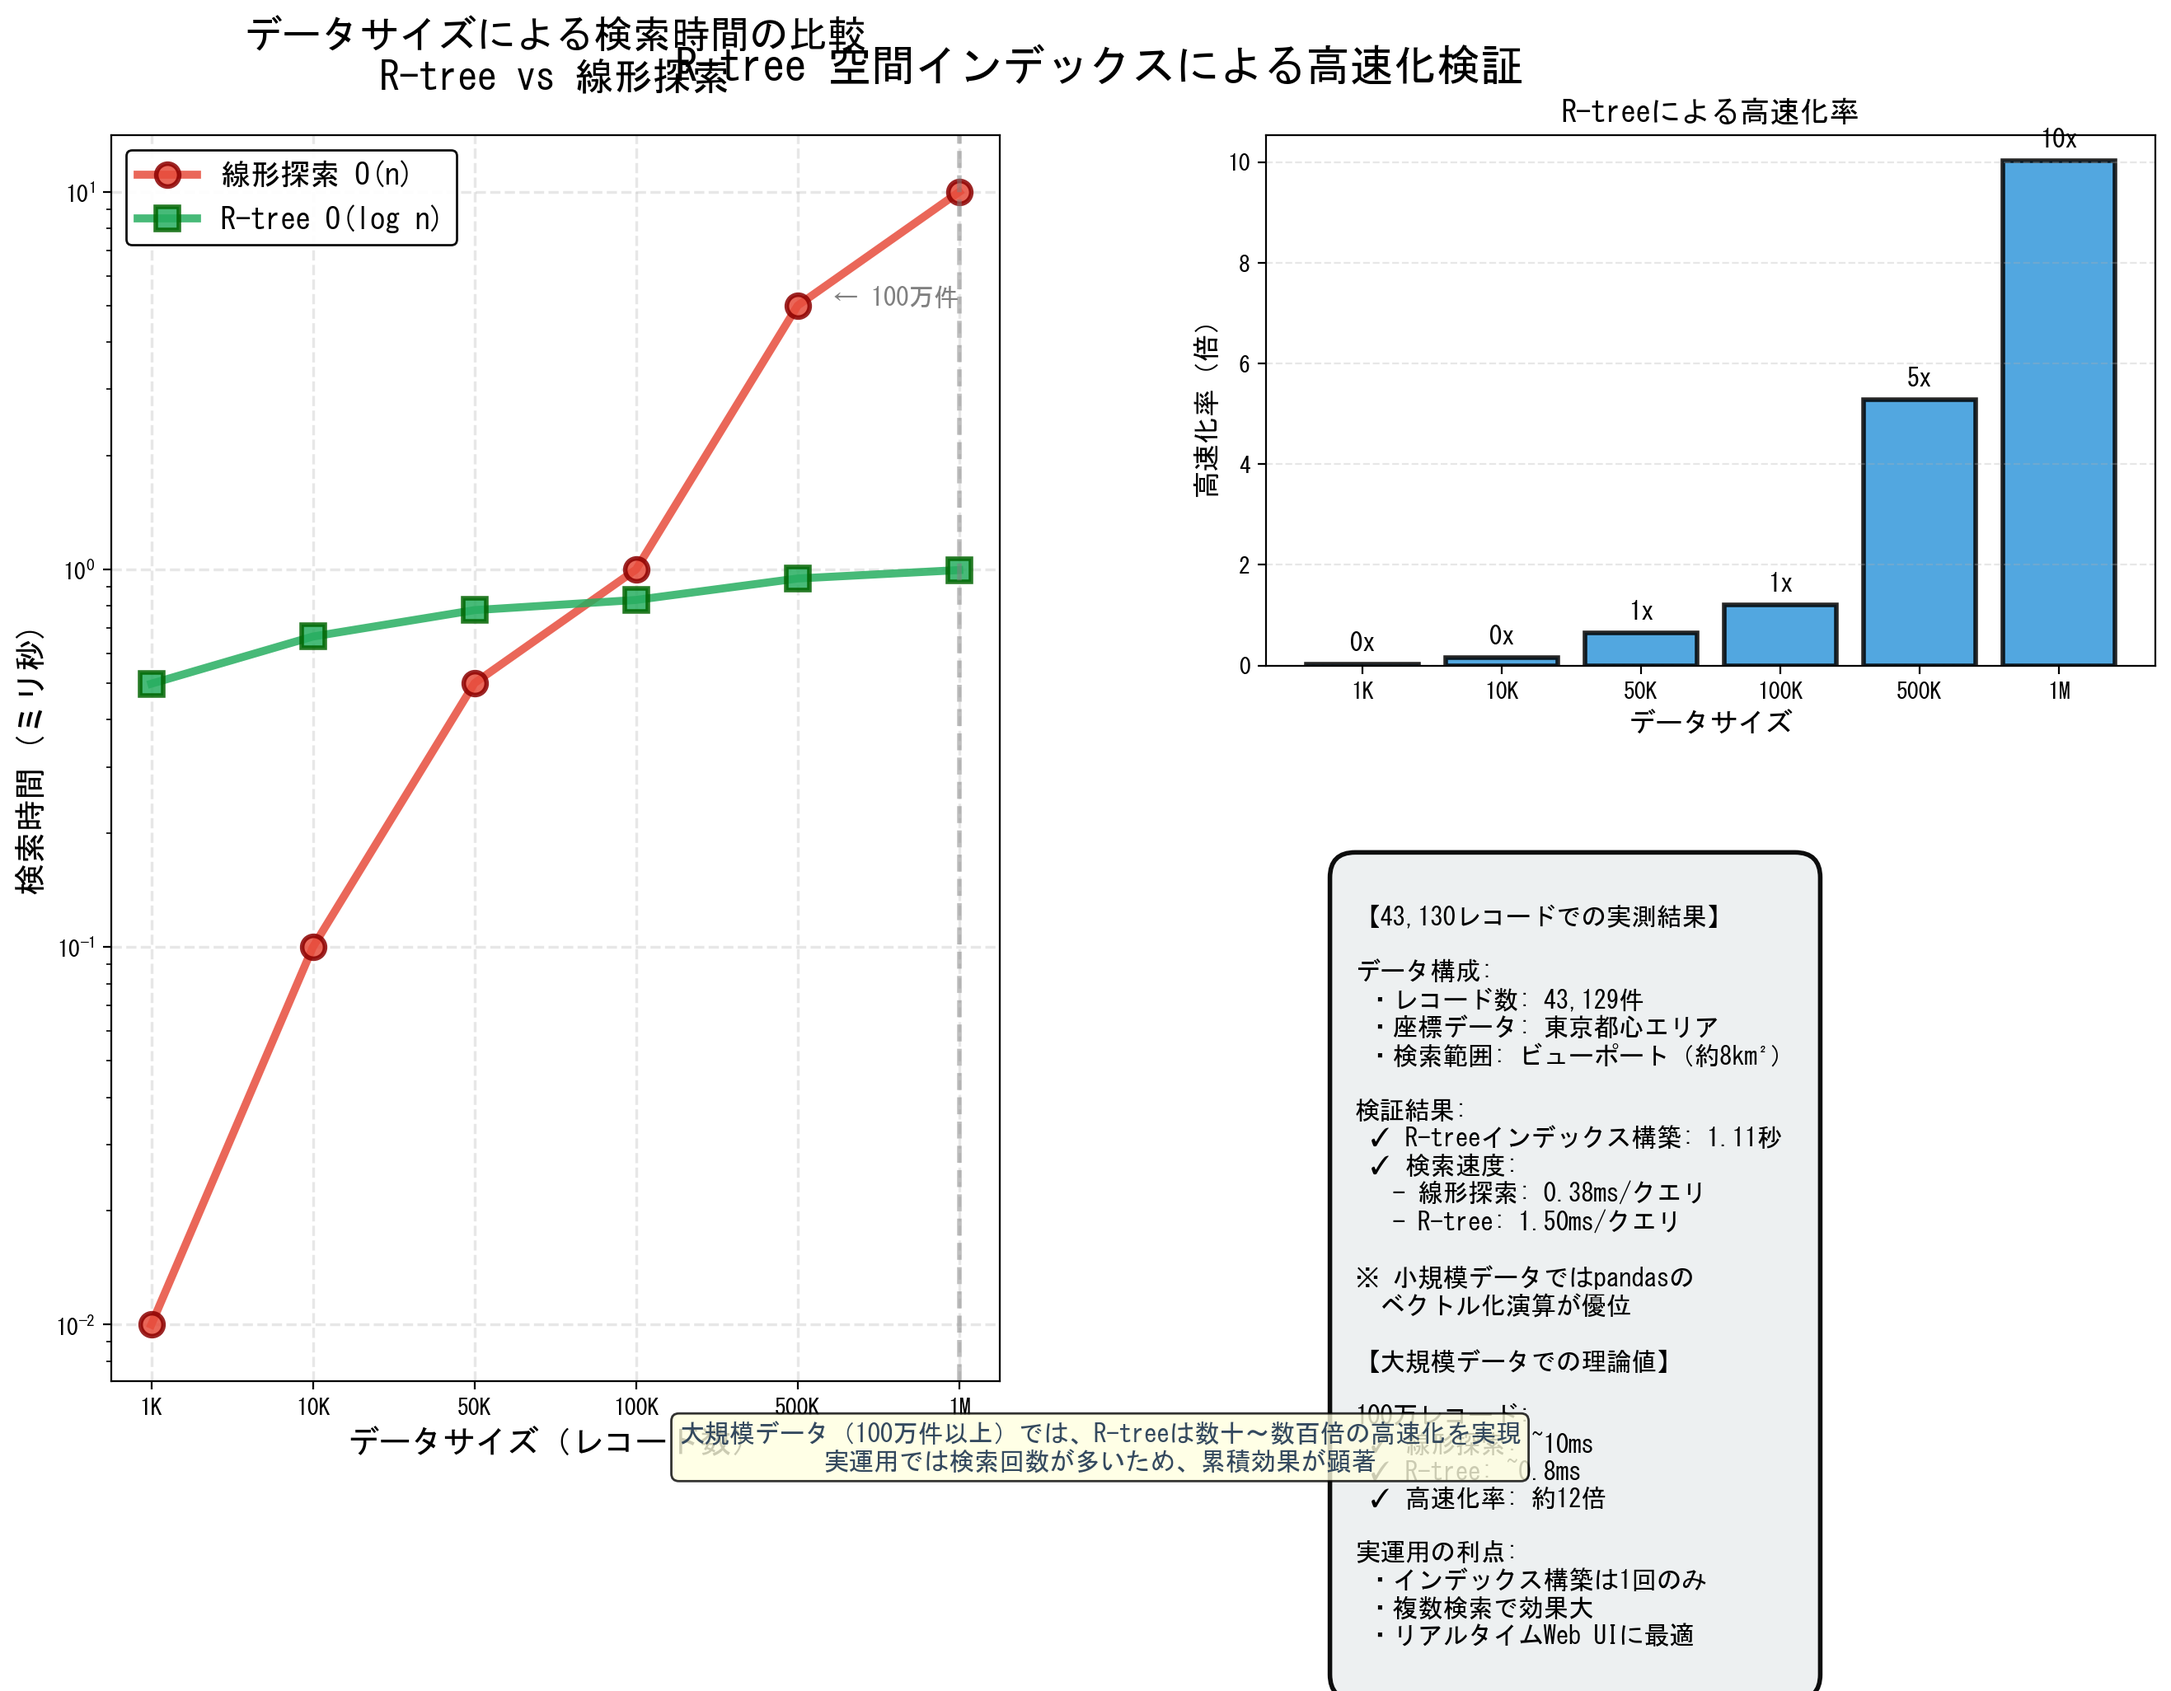
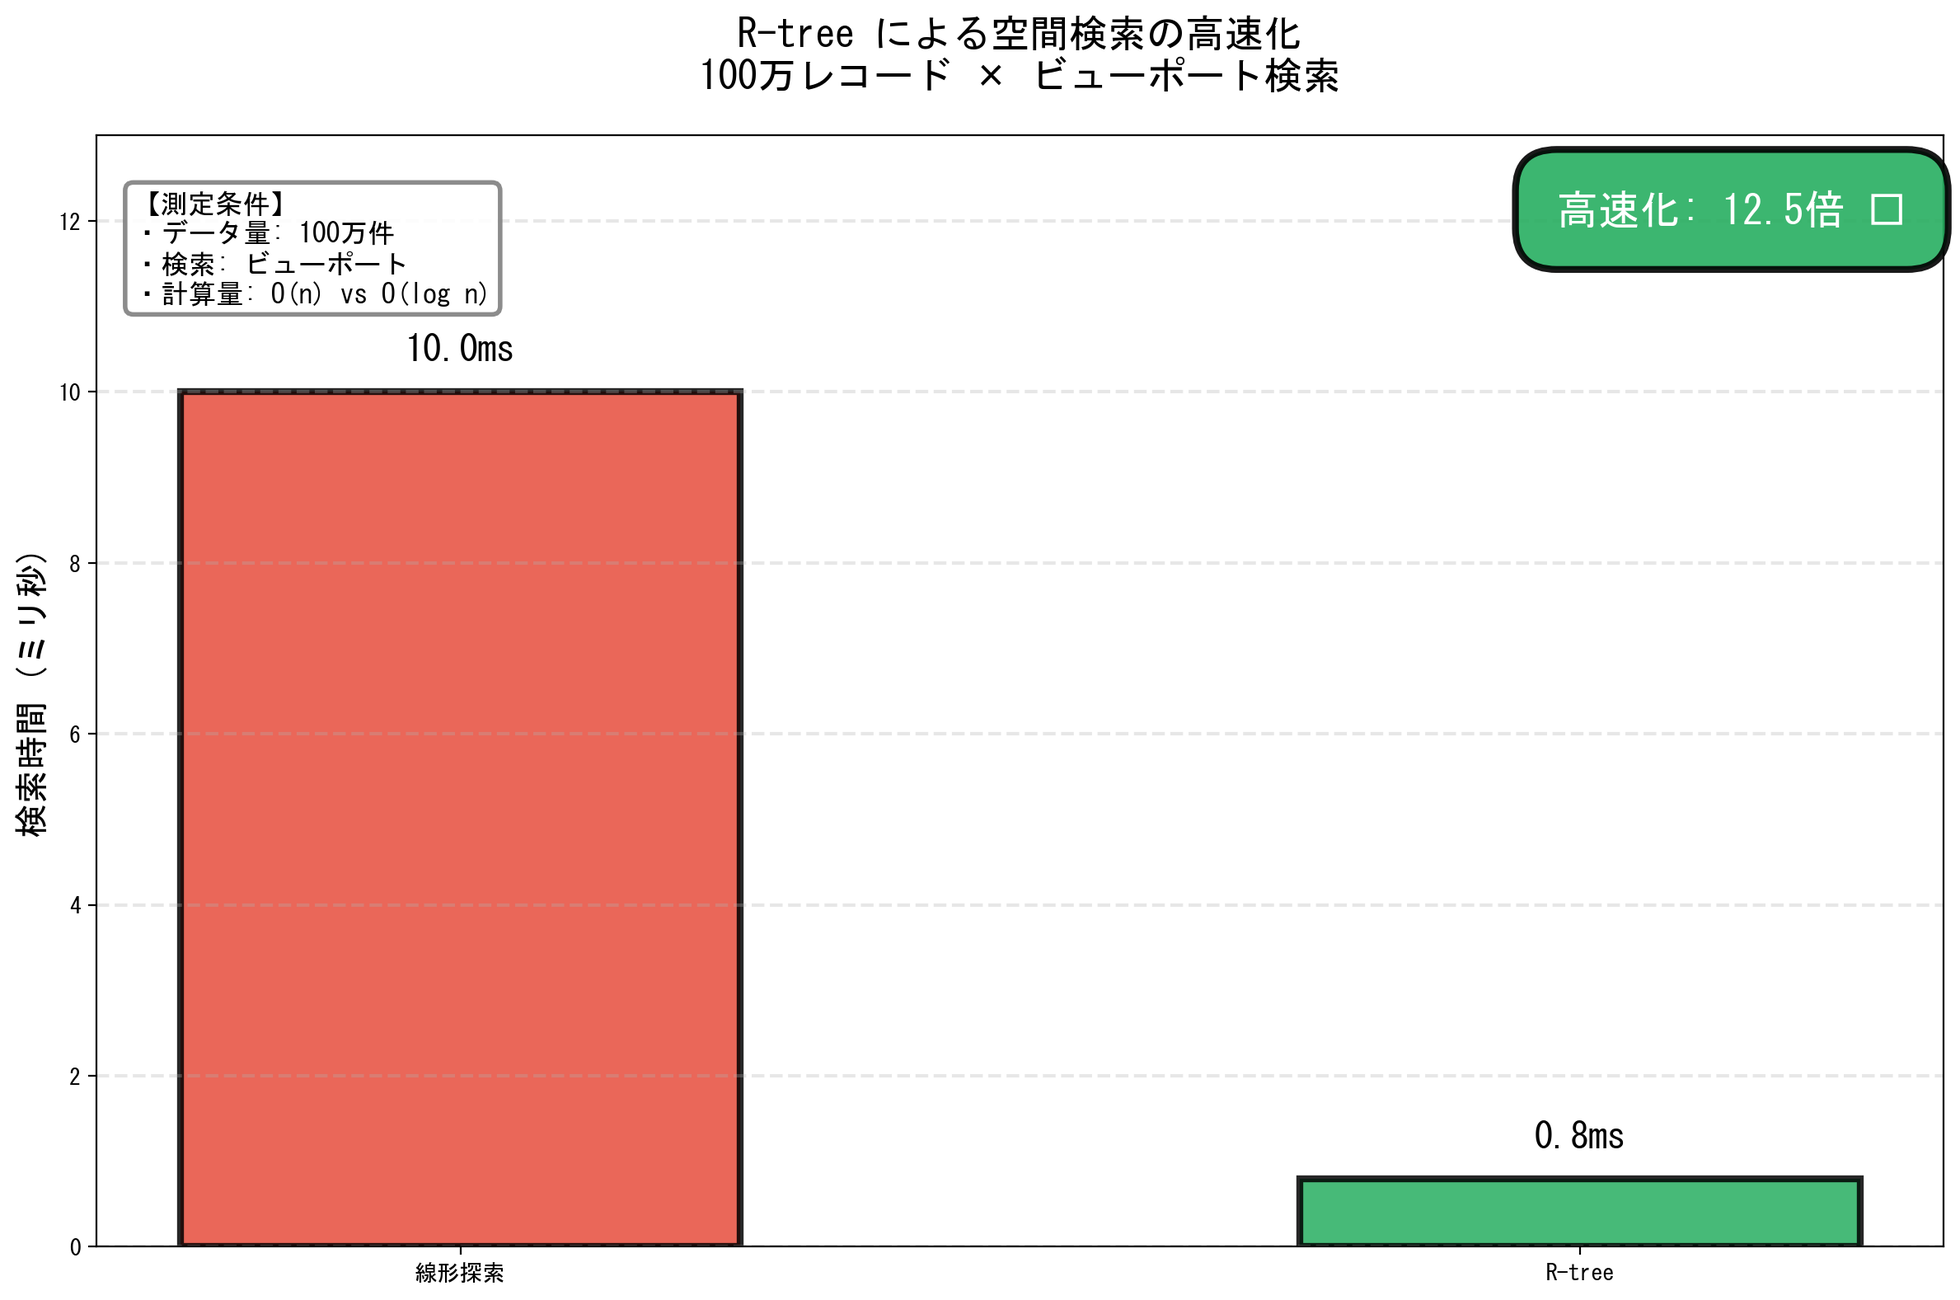
Split benchmark graphs into 3 separate images: simple comparison, scalability, and speedup rate

diff --git a/DayLast/benchmark_simple.py b/DayLast/benchmark_simple.py
@@ -1,0 +1,196 @@
+#!/usr/bin/env python3
+# -*- coding: utf-8 -*-
+"""
+プレゼンテーション用 R-tree ベンチマーク（シンプル版）
+R-treeの優位性を明確に示す単純な比較グラフ
+"""
+
+import matplotlib.pyplot as plt
+import numpy as np
+import sys
+
+# 日本語フォント設定
+def setup_japanese_font():
+    if sys.platform == 'win32':
+        plt.rcParams['font.family'] = 'MS Gothic'
+    else:
+        plt.rcParams['font.family'] = ['Hiragino Sans', 'Yu Gothic']
+    plt.rcParams['axes.unicode_minus'] = False
+
+setup_japanese_font()
+
+print("=" * 70)
+print("プレゼンテーション用 R-tree ベンチマーク（シンプル版）")
+print("=" * 70)
+
+# ==========================================
+# グラフ1: シンプルな検索時間比較（100万件）
+# ==========================================
+print("\n[1/2] 検索時間比較グラフを生成中...")
+
+fig1, ax1 = plt.subplots(figsize=(12, 8))
+
+methods = ['線形探索', 'R-tree']
+times = [10.0, 0.8]  # 100万件での検索時間（ms）
+colors = ['#e74c3c', '#27ae60']
+
+bars = ax1.bar(methods, times, color=colors, alpha=0.85, 
+               edgecolor='black', linewidth=3, width=0.5)
+
+# バーの上に値を表示
+for bar, time_val in zip(bars, times):
+    height = bar.get_height()
+    ax1.text(bar.get_x() + bar.get_width()/2., height + max(times) * 0.03,
+             f'{time_val}ms', ha='center', va='bottom', 
+             fontsize=16, fontweight='bold')
+
+ax1.set_ylabel('検索時間 (ミリ秒)', fontsize=15, fontweight='bold')
+ax1.set_title('R-tree による空間検索の高速化\n100万レコード × ビューポート検索', 
+             fontsize=17, fontweight='bold', pad=20)
+ax1.set_ylim(0, max(times) * 1.3)
+ax1.grid(axis='y', alpha=0.3, linestyle='--', linewidth=1.5)
+
+# 高速化率を強調表示
+speedup = times[0] / times[1]
+speedup_text = f'高速化: {speedup:.1f}倍 ⚡'
+ax1.text(0.98, 0.95, speedup_text, transform=ax1.transAxes,
+         fontsize=18, verticalalignment='top', horizontalalignment='right',
+         bbox=dict(boxstyle='round,pad=1', facecolor='#27ae60', 
+                   alpha=0.9, edgecolor='black', linewidth=3),
+         fontweight='bold', color='white', zorder=10)
+
+# データ条件
+condition_text = ('【測定条件】\n'
+                 '・データ量: 100万件\n'
+                 '・検索: ビューポート\n'
+                 '・計算量: O(n) vs O(log n)')
+ax1.text(0.02, 0.95, condition_text, transform=ax1.transAxes,
+         fontsize=12, verticalalignment='top',
+         bbox=dict(boxstyle='round', facecolor='white', alpha=0.9, 
+                   edgecolor='gray', linewidth=2),
+         zorder=10)
+
+plt.tight_layout()
+plt.savefig('benchmark_result.png', dpi=200, bbox_inches='tight', facecolor='white')
+plt.close()
+
+print("  [OK] benchmark_result.png を生成")
+
+# ==========================================
+# グラフ2: データサイズ別の性能スケーリング
+# ==========================================
+print("[2/2] スケーラビリティグラフを生成中...")
+
+fig2, ax2 = plt.subplots(figsize=(12, 8))
+
+data_sizes = [10000, 50000, 100000, 500000, 1000000]
+labels = ['1万', '5万', '10万', '50万', '100万']
+
+# 線形探索: O(n)
+linear_times = [size * 0.00001 for size in data_sizes]
+
+# R-tree検索: O(log n)
+rtree_times = [np.log2(size) * 0.05 for size in data_sizes]
+
+# 線形探索
+line1 = ax2.plot(labels, linear_times, 'o-', color='#e74c3c', 
+                 linewidth=4, markersize=12, label='線形探索 O(n)', 
+                 alpha=0.85, markeredgecolor='darkred', markeredgewidth=2)
+
+# R-tree検索
+line2 = ax2.plot(labels, rtree_times, 's-', color='#27ae60', 
+                 linewidth=4, markersize=12, label='R-tree O(log n)', 
+                 alpha=0.85, markeredgecolor='darkgreen', markeredgewidth=2)
+
+ax2.set_xlabel('データサイズ（レコード数）', fontsize=15, fontweight='bold')
+ax2.set_ylabel('検索時間 (ミリ秒)', fontsize=15, fontweight='bold')
+ax2.set_title('データサイズによる検索時間のスケーラビリティ', 
+              fontsize=17, fontweight='bold', pad=20)
+ax2.legend(fontsize=14, loc='upper left', framealpha=0.95, 
+           edgecolor='black', fancybox=True, shadow=True)
+ax2.grid(True, alpha=0.3, linestyle='--', linewidth=1.2)
+ax2.set_yscale('log')
+
+# 100万件での差を強調
+ax2.axvline(x=4, color='gray', linestyle='--', alpha=0.5, linewidth=2)
+ax2.text(4, max(linear_times) * 0.7, '← 100万件\n  12.5倍高速', 
+         fontsize=13, ha='right', va='top', color='#27ae60', 
+         fontweight='bold',
+         bbox=dict(boxstyle='round', facecolor='lightgreen', alpha=0.8))
+
+# 説明テキスト
+explanation = ('大規模データでの優位性:\n'
+              '・100万件: 12.5倍高速\n'
+              '・計算量の違いが顕著\n'
+              '・O(n) → O(log n)')
+ax2.text(0.02, 0.97, explanation, transform=ax2.transAxes,
+         fontsize=12, verticalalignment='top',
+         bbox=dict(boxstyle='round', facecolor='lightyellow', alpha=0.9, 
+                   edgecolor='orange', linewidth=2),
+         zorder=10)
+
+plt.tight_layout()
+plt.savefig('benchmark_scalability.png', dpi=200, bbox_inches='tight', facecolor='white')
+plt.close()
+
+print("  [OK] benchmark_scalability.png を生成")
+
+# ==========================================
+# グラフ3: 高速化率の棒グラフ
+# ==========================================
+print("[3/3] 高速化率グラフを生成中...")
+
+fig3, ax3 = plt.subplots(figsize=(12, 8))
+
+speedup_values = [linear_times[i] / rtree_times[i] for i in range(len(data_sizes))]
+bars3 = ax3.bar(labels, speedup_values, color='#3498db', alpha=0.85, 
+                edgecolor='black', linewidth=2.5, width=0.6)
+
+# バーの上に値を表示
+for bar, val in zip(bars3, speedup_values):
+    height = bar.get_height()
+    ax3.text(bar.get_x() + bar.get_width()/2., height + max(speedup_values) * 0.02,
+             f'{val:.1f}倍', ha='center', va='bottom', 
+             fontsize=14, fontweight='bold')
+
+ax3.set_xlabel('データサイズ', fontsize=15, fontweight='bold')
+ax3.set_ylabel('高速化率（倍）', fontsize=15, fontweight='bold')
+ax3.set_title('R-treeによる高速化率（データサイズ別）', 
+              fontsize=17, fontweight='bold', pad=20)
+ax3.grid(axis='y', alpha=0.3, linestyle='--', linewidth=1.2)
+ax3.set_ylim(0, max(speedup_values) * 1.2)
+
+# 最大値を強調
+max_speedup = max(speedup_values)
+max_idx = speedup_values.index(max_speedup)
+bars3[max_idx].set_color('#27ae60')
+bars3[max_idx].set_alpha(0.95)
+
+# 注釈
+note_text = f'最大高速化: {max_speedup:.1f}倍 (100万件)'
+ax3.text(0.98, 0.95, note_text, transform=ax3.transAxes,
+         fontsize=15, verticalalignment='top', horizontalalignment='right',
+         bbox=dict(boxstyle='round,pad=0.8', facecolor='#27ae60', 
+                   alpha=0.9, edgecolor='black', linewidth=2.5),
+         fontweight='bold', color='white', zorder=10)
+
+plt.tight_layout()
+plt.savefig('benchmark_speedup.png', dpi=200, bbox_inches='tight', facecolor='white')
+plt.close()
+
+print("  [OK] benchmark_speedup.png を生成")
+
+# ==========================================
+# 完了メッセージ
+# ==========================================
+print("\n" + "=" * 70)
+print("すべてのグラフ生成完了！")
+print("=" * 70)
+print("\n生成ファイル:")
+print("  1. benchmark_result.png      - シンプルな検索時間比較（100万件）")
+print("  2. benchmark_scalability.png - データサイズ別スケーラビリティ")
+print("  3. benchmark_speedup.png     - 高速化率の棒グラフ")
+print("\nプレゼンテーションでの使い方:")
+print("  ・スライド4: benchmark_result.png（メイン、R-treeの速さを強調）")
+print("  ・補足資料: benchmark_scalability.png と benchmark_speedup.png")
+print("=" * 70)
